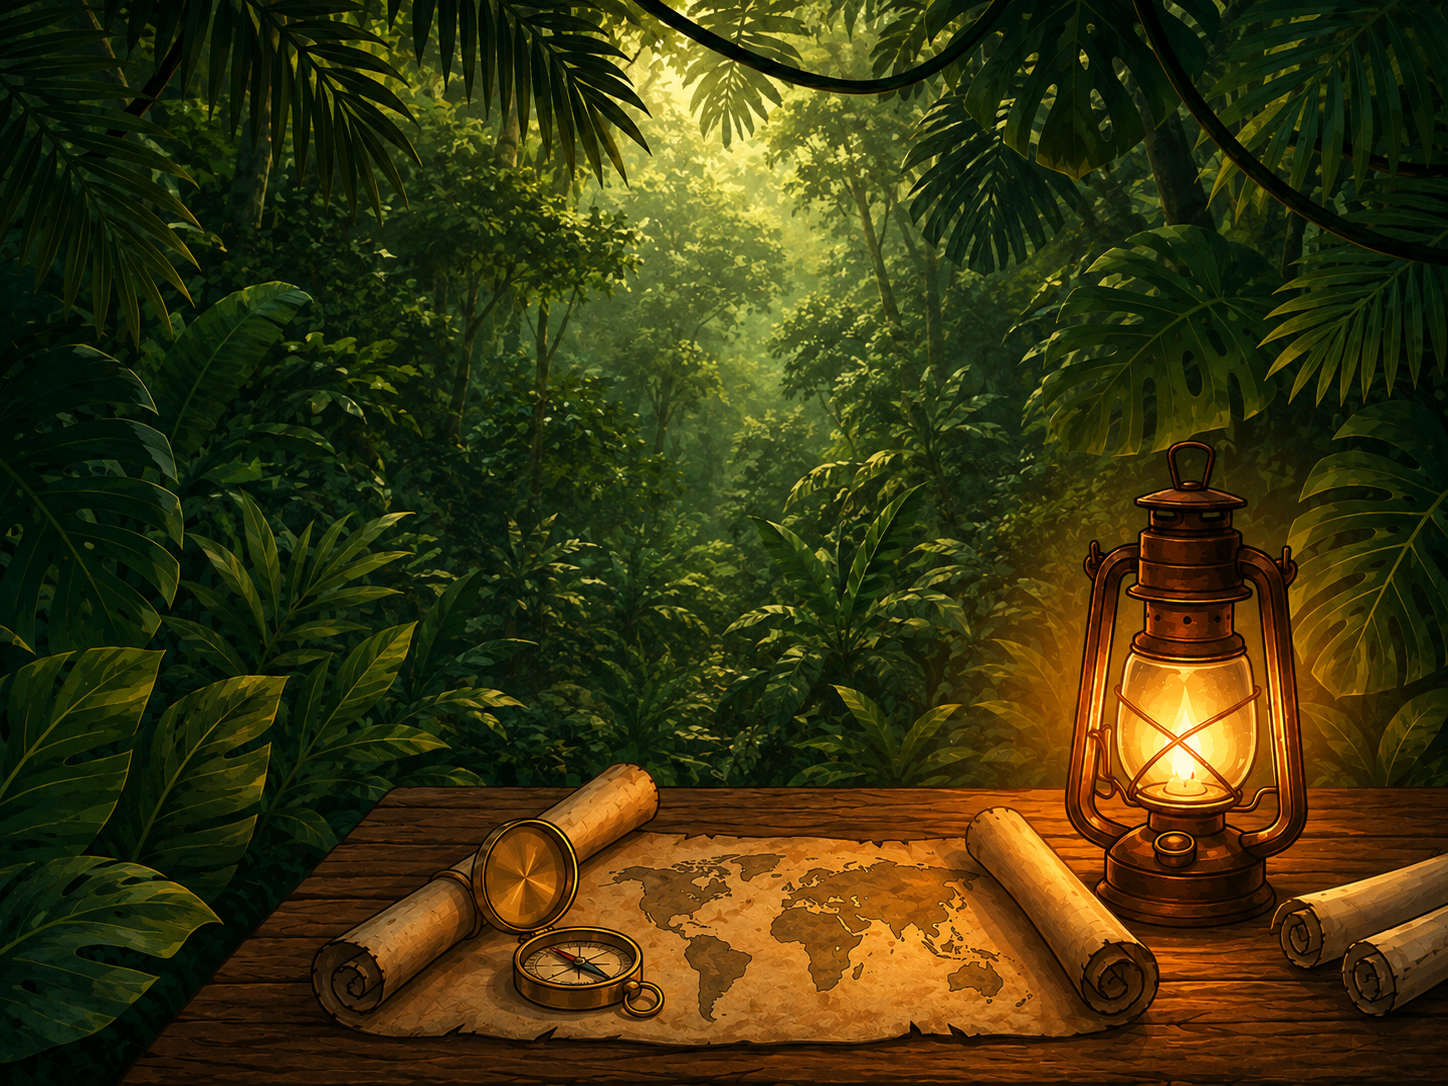
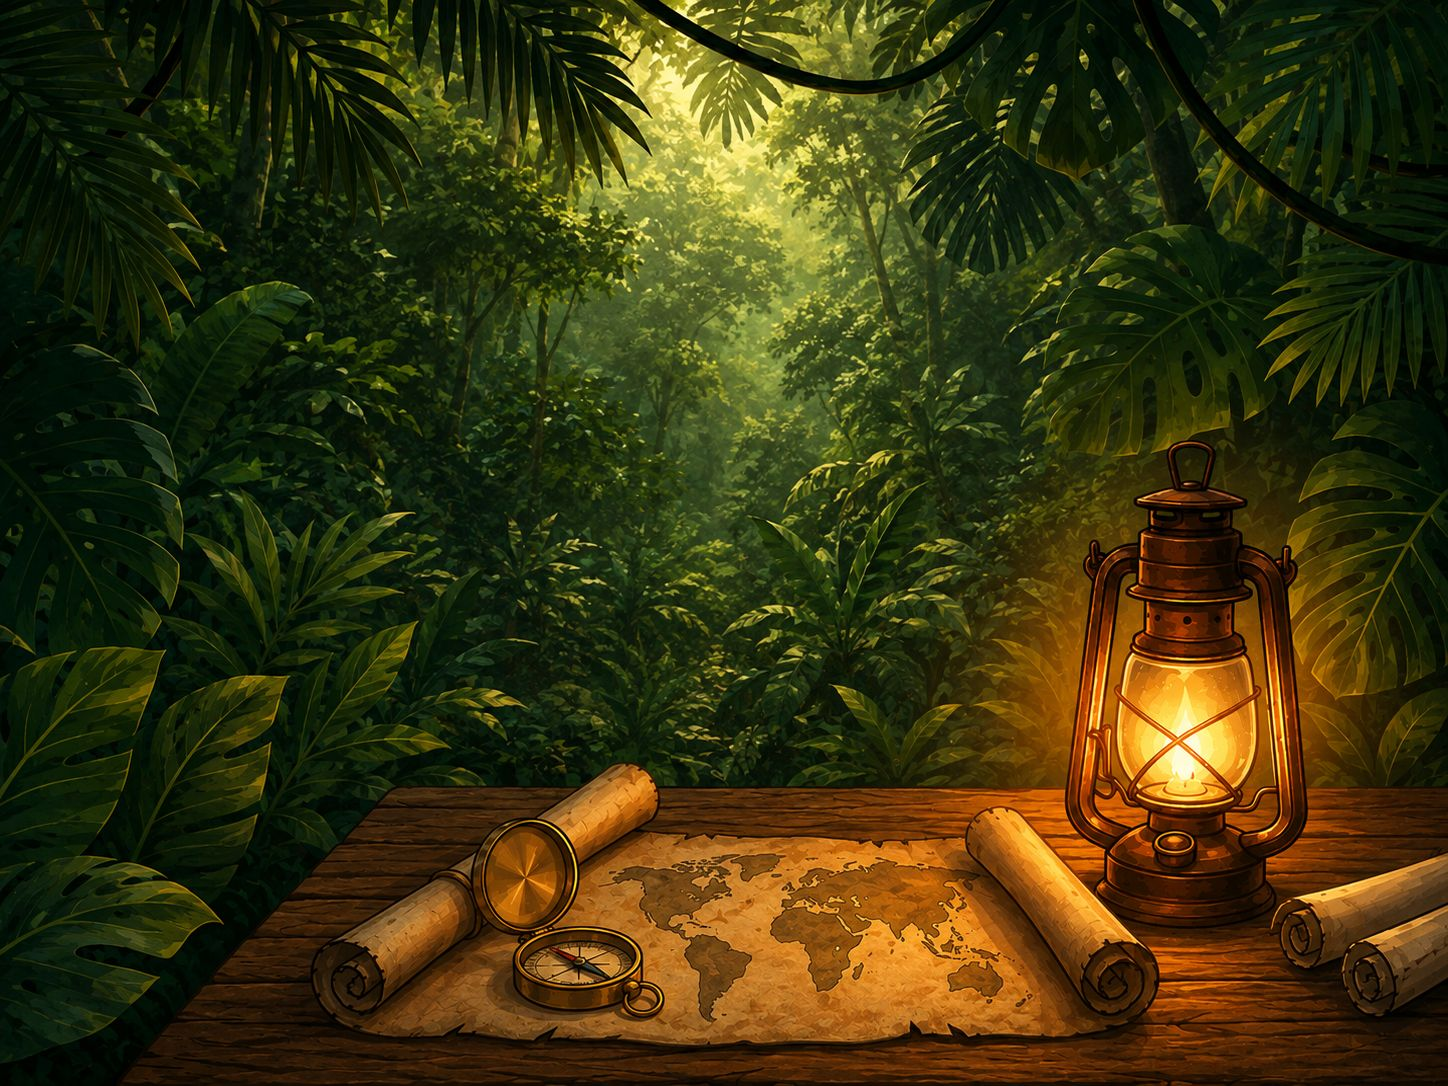
compress wallpaper & add wallpaper game Co-authored-by: monkeycode-ai <monkeycode-ai@chaitin.com>

diff --git a/game.html b/game.html
@@ -109,10 +109,20 @@ input{width:100%;padding:13px 14px;border:1px solid var(--line);border-radius:13
  .target-area{height:270px}
 }
 .dark { color-scheme: dark; }
-.dark body { background: #121417; color: #e8e8e8; }
+.dark body {
+  color: #e8e8e8;
+  background: linear-gradient(rgba(18, 20, 23, 0.72), rgba(18, 20, 23, 0.72)),
+    url('desktop-wall.png') center top / cover no-repeat fixed #121417;
+}
 .dark .nav-bar { background: #1b2024; }
 .dark .sub { color: #9aa2ab; }
-.dark .card { background: #1e2226; border-color: #333a42; box-shadow: 0 14px 40px rgba(0,0,0,.35); }
+.dark .card { background: rgba(30, 34, 38, 0.82); border-color: #333a42; box-shadow: 0 14px 40px rgba(0,0,0,.35); }
+@media (max-width: 600px) {
+  .dark body {
+    background: linear-gradient(rgba(18, 20, 23, 0.72), rgba(18, 20, 23, 0.72)),
+      url('mobile-wall.png') center top / cover no-repeat fixed #121417;
+  }
+}
 .dark .muted, .dark .note { color: #9aa2ab; }
 .dark .badge { background: #232b36; color: #8ab4ff; }
 .dark .btn.secondary { background: #232b36; color: #8ab4ff; }
